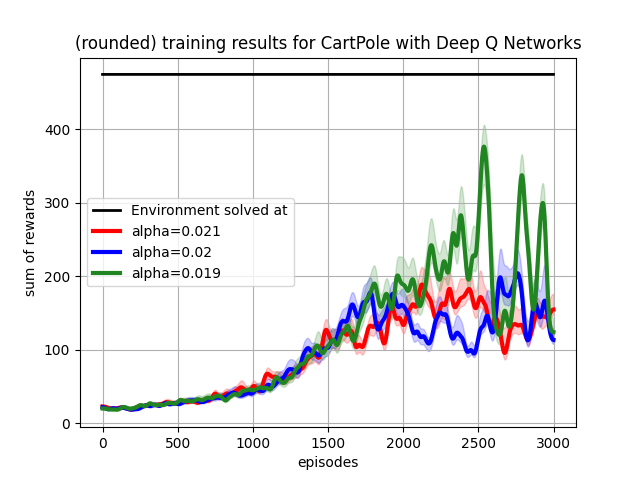
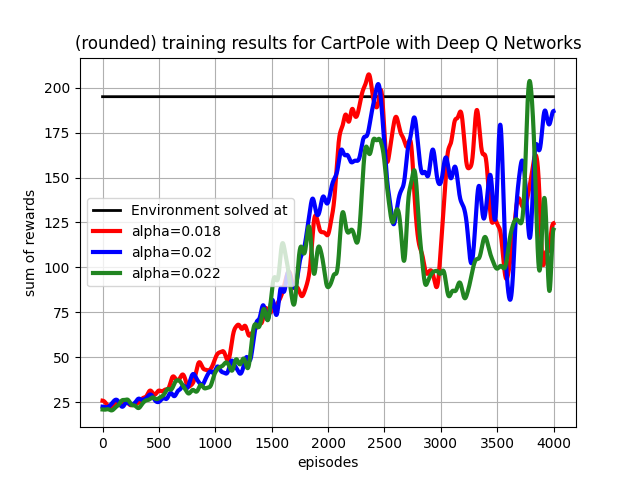
Update showcases

diff --git a/experiments/comparison_dqn_hyperparameters.py b/experiments/comparison_dqn_hyperparameters.py
@@ -5,15 +5,15 @@ from utils import visualize_training_results_for_agents
 
 """
 In this example comparison three instances of the same kind of agent with different starting alpha values are tested.
-Testing contains 5000 episodes of training per agent.  
+Testing contains 4000 episodes of training per agent.  
 As testing environment the Cart Pole challenge ist chosen with continuous observation space. 
 """
 
 env = CartPoleEnv()
 
 # Hyperparameters (hp):
-training_episodes = 3000
-reach_min = 1
+training_episodes = 4000
+reach_min = 0.9
 
 hp = dict()
 hp['epsilon'] = 1
@@ -25,7 +25,7 @@ hp['train_size'] = 256
 alpha_reduction_rate = 20
 
 hp_alpha_high = hp.copy()
-hp_alpha_high['alpha'] = 0.021
+hp_alpha_high['alpha'] = 0.022
 hp_alpha_high['alpha_min'] = hp_alpha_high['alpha'] / alpha_reduction_rate
 hp_alpha_high['alpha_reduction'] = (hp_alpha_high['alpha'] - hp_alpha_high['alpha_min']) / (training_episodes * reach_min)
 
@@ -35,7 +35,7 @@ hp_alpha_mid['alpha_min'] = hp_alpha_mid['alpha'] / alpha_reduction_rate
 hp_alpha_mid['alpha_reduction'] = (hp_alpha_mid['alpha'] - hp_alpha_mid['alpha_min']) / (training_episodes * reach_min)
 
 hp_alpha_low = hp.copy()
-hp_alpha_low['alpha'] = 0.019
+hp_alpha_low['alpha'] = 0.018
 hp_alpha_low['alpha_min'] = hp_alpha_low['alpha'] / alpha_reduction_rate
 hp_alpha_low['alpha_reduction'] = (hp_alpha_low['alpha'] - hp_alpha_low['alpha_min']) / (training_episodes * reach_min)
 
@@ -43,7 +43,7 @@ dqn_agent_high = DeepQNetworkAgent(env, **hp_alpha_high, name=f'alpha={hp_alpha_
 dqn_agent_mid = DeepQNetworkAgent(env, **hp_alpha_mid, name=f'alpha={hp_alpha_mid["alpha"]}')
 dqn_agent_low = DeepQNetworkAgent(env, **hp_alpha_low, name=f'alpha={hp_alpha_low["alpha"]}')
 
-stats = train_agents(env, [dqn_agent_high, dqn_agent_mid, dqn_agent_low],
-                     training_episodes=training_episodes, repetitions=3, max_step_per_episode=550)
+stats = train_agents(env, [dqn_agent_low, dqn_agent_mid, dqn_agent_high],
+                     training_episodes=training_episodes, repetitions=1, max_step_per_episode=230)
 visualize_training_results_for_agents(stats, save_fig='comparison_dqn_cart_pole.png',
                                       train_for='CartPole with Deep Q Networks', solved_at=CART_POLE_SOLVED_AT)

diff --git a/environments/__init__.py b/environments/__init__.py
@@ -21,6 +21,6 @@ from gym.envs.classic_control.continuous_mountain_car import Continuous_Mountain
 
 # Constants, for which avg reward the env is considered solved
 FROZEN_LAKE_SOLVED_AT = 0.78
-CART_POLE_SOLVED_AT = 475.0
+CART_POLE_SOLVED_AT = 195.0
 PENDULUM_SOLVED_AT = -200
 

diff --git a/experiments/README.md b/experiments/README.md
@@ -57,11 +57,10 @@ Every agent uses the same hyperparameters, except the n-value. Results are shown
 The training environment is CartPole from openAI with continuous observation space and discrete actions. 
 Three versions of a [Deep Q-Network](/agents/deep_q_network_agent.py) with the same epsilon reduction and neural network structure
 are used, but the learning rate `alpha` is different for each agent. 
-The effect of learning rate on training effectiveness is compared.   
+The effect of learning rate on training effectiveness is compared. Cartpole is considered as solved, when the agent gets
+a reward of over 195 for 100 consecutive episodes.  
 
 <img src="./plots/comparison_dqn_cart_pole.png" width="400" />
-
-As shown in the plot, agent with `alpha=0.019` is the most promising, but further hyperparameter tweaking has to be done.  
 
 
 ## Showcase
@@ -69,16 +68,16 @@ These tests show that the corresponding method implementation works as intended.
 
 ### [Dynamic Programming Agent](/experiments/showcase_dp.py)
 DP-Agent updates its Q-Values due to knowledge of state transition probabilities
-and reward probabilities. Applied to FrozenLake4x4 it results in: 
+and reward probabilities. FrozenLake is considered solved with more than 78% success rate. DP Applied to FrozenLake4x4 it results in: 
 
 `Dynamic Programming Agent solved 83.0% of FrozenLake4x4 iterations`
 
 ### [Monte Carlo Tree Search](/experiments/showcase_mcts.py)
 The action tree is expanded with each action. [Monte Carlo Tree Search](/agents/mc_tree_search_agent.py) doesn't need training (its rollout policy might). 
 Here a maze is used as environment, where the agent(red) has to reach the goal (green) and receives a positive reward. 
-For collecting the treasure (cyan) the agent receives double the amount of the goal. 
+For collecting the treasure (rhombus) the agent receives double the amount of the goal. 
 
-The action tree is visualized by the red line in the following video. 
+The action tree is visualized by the red lines in the following video. 
 
 <img src="./monitoring/mcts/openaigym.video.gif" width="400" />
 
